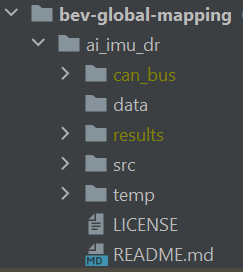
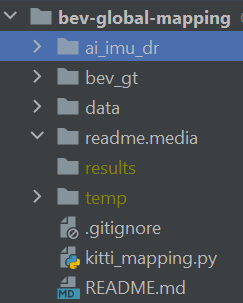
Updated README.md for the file system.
Add todo list in README.md

diff --git a/ai_imu_dr/src/main_kitti.py b/ai_imu_dr/src/main_kitti.py
@@ -456,9 +456,9 @@ def test_filter(args, dataset):
 
 class KITTIArgs():
         path_data_base = "/media/mines/46230797-4d43-4860-9b76-ce35e699ea47/KITTI/raw"
-        path_data_save = "../data"
-        path_results = "../results"
-        path_temp = "../temp"
+        path_data_save = "data"
+        path_results = "results"
+        path_temp = "temp"
 
         epochs = 400
         seq_dim = 6000

diff --git a/README.md b/README.md
@@ -3,8 +3,20 @@
 # Setup
 1. Clone the repo
 2. Create `results` and `temp` folder under `ai_imu_dr`
-3. Download the CAN Bus Expansion dataset from [NuScenes](https://www.nuscenes.org/nuscenes?sceneId=scene-0061&frame=0&view=regular)
-4. Unzip the data under the `ai_imu_dr`, the folder name should be `can_bus`.
-5. Set the working directory to `ai_imu_dr`: `cd ai_imu_dr`
-6. The directory should looks like this: ![directory](readme.media/readme.directory.png)
-7. Run `python3 src/main_nuscenes.py`
+3. Download the dataset from [ai-imu's dropbox](https://www.dropbox.com/s/ey41xsvfqca30vv/data.zip)
+4. Download the local map data from [Google Drive](https://drive.google.com/file/d/1i5vMMN_DKbk3g-sNs-eEluKYWHowTE_-/view?usp=share_link)
+5. Create `temp` and `results` folder under root directory.
+6. Unzip the data under the root directory, the folder name should be `can_bus`.
+7. Set the working directory to root.
+8. The directory should look like this: ![directory](readme.media/readme.directory.png)
+9. Run `python3 kitti_mapping.py`
+10. If you want to run `main_KITTI.py`, please call it under root directory, and run `python3 ai_imu_dr/src/main_kitti.py`
+
+# Things need to be implemented
+## Map local sematic label to global
+- [ ] Get grid size from MotionNet
+- [ ] Requires coordinate transformation, convert BEV local cells to global cell coordinate.
+## Mapping 
+- Not able to start yet
+- [ ] Loop over poses and convert local maps to global grid.
+- [ ] Update map parameters for each cell (discrete sematic counting sensor model)
